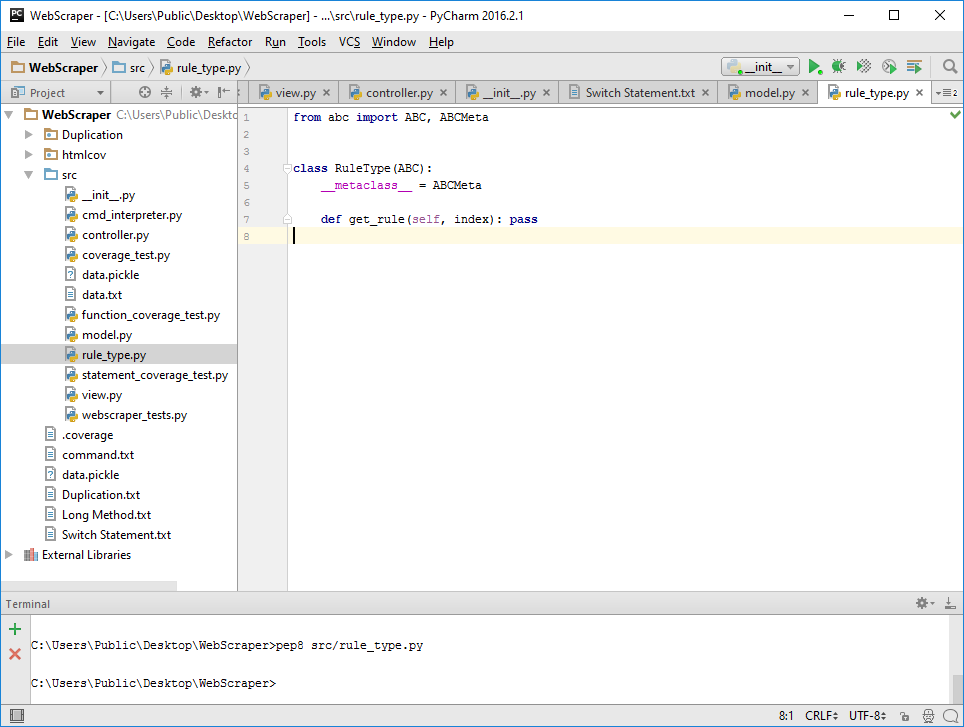
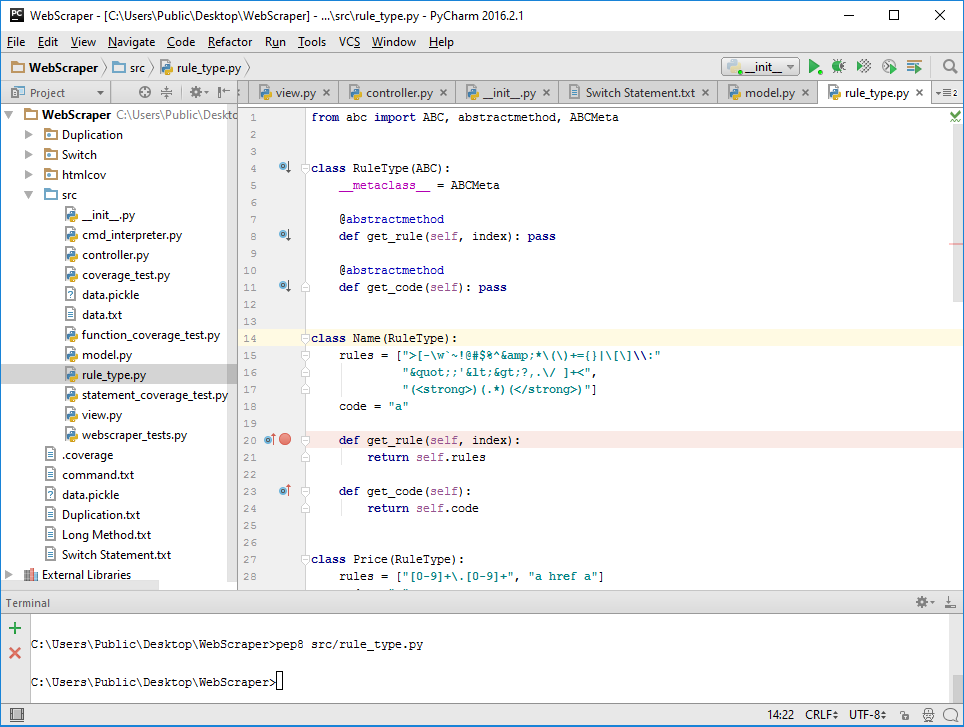
Add files via upload
Switch statement
Step 2 - Create subclasses
Overwrite get method

diff --git a/src/rule_type.py b/src/rule_type.py
@@ -6,3 +6,63 @@ class RuleType(ABC):
 
     @abstractmethod
     def get_rule(self, index): pass
+
+    @abstractmethod
+    def get_code(self): pass
+
+
+class Name(RuleType):
+    rules = [">[-\w`~!@#$%^&amp;*\(\)+={}|\[\]\\:"
+             "&quot;;'&lt;&gt;?,.\/ ]+<",
+             "(<strong>)(.*)(</strong>)"]
+    code = "a"
+
+    def get_rule(self, index):
+        return self.rules
+
+    def get_code(self):
+        return self.code
+
+
+class Price(RuleType):
+    rules = ["[0-9]+\.[0-9]+", "a href a"]
+    code = "p"
+
+    def get_rule(self, index):
+        return self.rules
+
+    def get_code(self):
+        return self.code
+
+
+class Image(RuleType):
+    rules = ["(https?):(//)+[^\s]+\.(jpg|jpeg|jif|jfif|gif|tif|tiff|png)"]
+    code = "i"
+
+    def get_rule(self, index):
+        return self.rules
+
+    def get_code(self):
+        return self.code
+
+
+class Link(RuleType):
+    rules = ["((https?):(//)+([\w\d:#@%/;$()~_?\+-=\\\.&](#!)?)*)"]
+    code = "l"
+
+    def get_rule(self, index):
+        return self.rules
+
+    def get_code(self):
+        return self.code
+
+
+class Ranking(RuleType):
+    rules = ["[0-9]+"]
+    code = "r"
+
+    def get_rule(self, index):
+        return self.rules
+
+    def get_code(self):
+        return self.code
